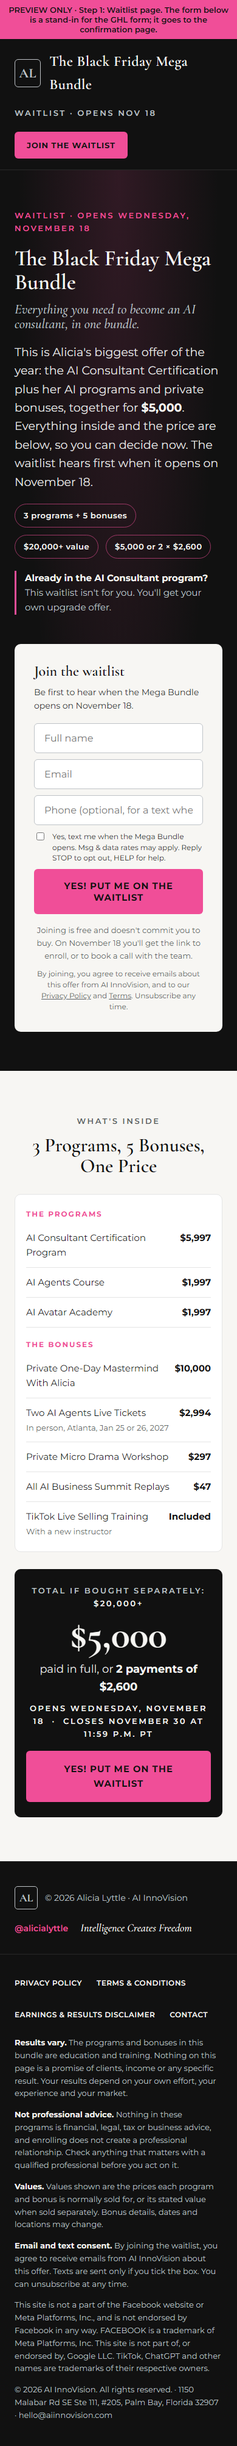
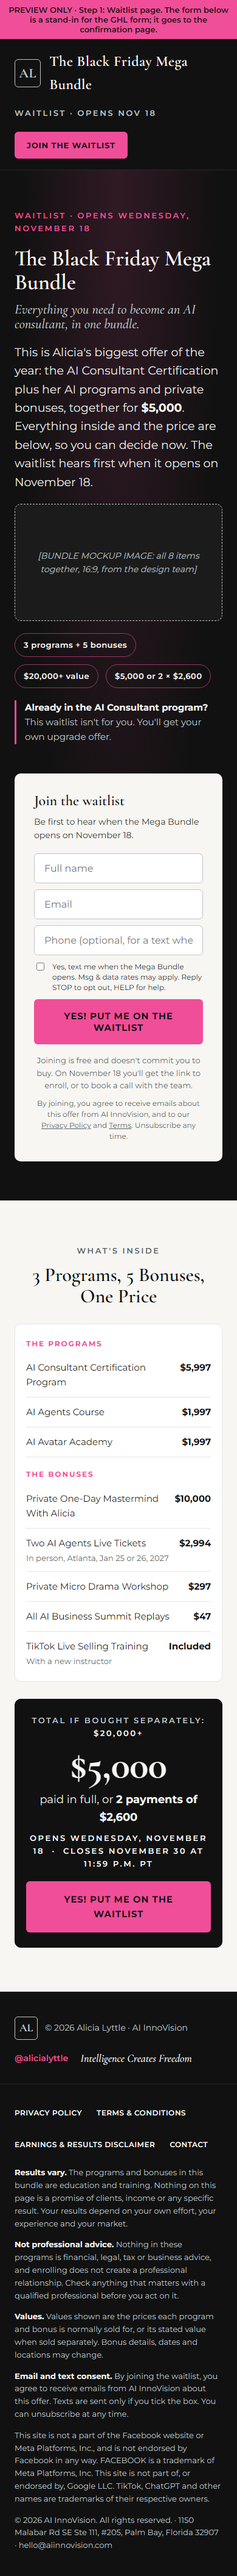
Waitlist: bundle mockup image slot in the hero

Changed region(s): [[0.0, 0.0, 1.0, 0.9973], [0.8615, 0.0, 0.8923, 0.0312]]

diff --git a/funnels/mega-bundle-waitlist-nov-2026/ghl/waitlist.ghl.html b/funnels/mega-bundle-waitlist-nov-2026/ghl/waitlist.ghl.html
@@ -135,6 +135,9 @@ body { background: #111111; }
 #ghl-waitlist .fit .body {font-size:17px;padding-left:28px;position:relative}
 #ghl-waitlist .fit.yes .body:before {content:"\2713";position:absolute;left:0;color:#F04E98;font-weight:700}
 #ghl-waitlist .fit.no .body:before {content:"\2715";position:absolute;left:0;color:#5A5F63;font-weight:700}
+/* bundle mockup slot (hero) */
+#ghl-waitlist .mockup {width:100%;aspect-ratio:16/9;border:1px dashed #BFC3C7;border-radius:10px;background:#1B1B1B;display:flex;align-items:center;justify-content:center;text-align:center;padding:20px;box-sizing:border-box;color:#BFC3C7;font-size:14px;font-style:italic}
+#ghl-waitlist .mockup img {width:100%;height:100%;object-fit:contain;display:block}
 /* compact list (short version) */
 #ghl-waitlist .list {background:#FFFFFF;border:1px solid #E5E5E5;border-radius:10px;padding:8px 28px 14px;display:flex;flex-direction:column}
 #ghl-waitlist .list .grp {font-size:12px;letter-spacing:.16em;text-transform:uppercase;font-weight:700;color:#F04E98;padding:18px 0 6px}
@@ -198,6 +201,9 @@ body { background: #111111; }
 <p class="eyebrow" style="color: #F04E98">Waitlist · Opens Wednesday, November 18</p>
 <h1 style="font-size: 60px; color: #F7F6F3">The Black Friday Mega Bundle <em style="display: block; font-style: italic; font-weight: 500; color: #BFC3C7; font-size: .62em; margin-top: 12px">Everything you need to become an AI consultant, in one bundle.</em></h1>
 <p class="body" style="font-size: 19px">This is Alicia's biggest offer of the year: the AI Consultant Certification plus her AI programs and private bonuses, together for <strong style="color: #F7F6F3">$5,000</strong>. Everything inside and the price are below, so you can decide now. The waitlist hears first when it opens on November 18.</p>
+<div class="mockup" id="bundle-mockup"><!-- Replace this box with the bundle mockup image: <img src="MOCKUP-URL" alt="The Black Friday Mega Bundle: everything inside"> -->
+<span>[BUNDLE MOCKUP IMAGE: all 8 items together, 16:9, from the design team]</span>
+</div>
 <div style="display: flex; flex-wrap: wrap; gap: 12px">
 <span class="pill">3 programs + 5 bonuses</span>
 <span class="pill">$20,000+ value</span>

diff --git a/funnels/mega-bundle-waitlist-nov-2026/design/waitlist.html b/funnels/mega-bundle-waitlist-nov-2026/design/waitlist.html
@@ -86,6 +86,9 @@ details summary::-webkit-details-marker{display:none}
 .fit .body{font-size:17px;padding-left:28px;position:relative}
 .fit.yes .body:before{content:"\2713";position:absolute;left:0;color:#F04E98;font-weight:700}
 .fit.no .body:before{content:"\2715";position:absolute;left:0;color:#5A5F63;font-weight:700}
+/* bundle mockup slot (hero) */
+.mockup{width:100%;aspect-ratio:16/9;border:1px dashed #BFC3C7;border-radius:10px;background:#1B1B1B;display:flex;align-items:center;justify-content:center;text-align:center;padding:20px;box-sizing:border-box;color:#BFC3C7;font-size:14px;font-style:italic}
+.mockup img{width:100%;height:100%;object-fit:contain;display:block}
 /* compact list (short version) */
 .list{background:#FFFFFF;border:1px solid #E5E5E5;border-radius:10px;padding:8px 28px 14px;display:flex;flex-direction:column}
 .list .grp{font-size:12px;letter-spacing:.16em;text-transform:uppercase;font-weight:700;color:#F04E98;padding:18px 0 6px}
@@ -130,6 +133,9 @@ details summary::-webkit-details-marker{display:none}
 <p class="eyebrow" style="color: #F04E98">Waitlist · Opens Wednesday, November 18</p>
 <h1 style="font-size: 60px; color: #F7F6F3">The Black Friday Mega Bundle <em style="display: block; font-style: italic; font-weight: 500; color: #BFC3C7; font-size: .62em; margin-top: 12px">Everything you need to become an AI consultant, in one bundle.</em></h1>
 <p class="body" style="font-size: 19px">This is Alicia's biggest offer of the year: the AI Consultant Certification plus her AI programs and private bonuses, together for <strong style="color: #F7F6F3">$5,000</strong>. Everything inside and the price are below, so you can decide now. The waitlist hears first when it opens on November 18.</p>
+<div class="mockup" id="bundle-mockup"><!-- Replace this box with the bundle mockup image: <img src="MOCKUP-URL" alt="The Black Friday Mega Bundle: everything inside"> -->
+<span>[BUNDLE MOCKUP IMAGE: all 8 items together, 16:9, from the design team]</span>
+</div>
 <div style="display: flex; flex-wrap: wrap; gap: 12px">
 <span class="pill">3 programs + 5 bonuses</span>
 <span class="pill">$20,000+ value</span>

diff --git a/funnels/mega-bundle-waitlist-nov-2026/preview/1-waitlist.html b/funnels/mega-bundle-waitlist-nov-2026/preview/1-waitlist.html
@@ -86,6 +86,9 @@ details summary::-webkit-details-marker{display:none}
 .fit .body{font-size:17px;padding-left:28px;position:relative}
 .fit.yes .body:before{content:"\2713";position:absolute;left:0;color:#F04E98;font-weight:700}
 .fit.no .body:before{content:"\2715";position:absolute;left:0;color:#5A5F63;font-weight:700}
+/* bundle mockup slot (hero) */
+.mockup{width:100%;aspect-ratio:16/9;border:1px dashed #BFC3C7;border-radius:10px;background:#1B1B1B;display:flex;align-items:center;justify-content:center;text-align:center;padding:20px;box-sizing:border-box;color:#BFC3C7;font-size:14px;font-style:italic}
+.mockup img{width:100%;height:100%;object-fit:contain;display:block}
 /* compact list (short version) */
 .list{background:#FFFFFF;border:1px solid #E5E5E5;border-radius:10px;padding:8px 28px 14px;display:flex;flex-direction:column}
 .list .grp{font-size:12px;letter-spacing:.16em;text-transform:uppercase;font-weight:700;color:#F04E98;padding:18px 0 6px}
@@ -130,6 +133,9 @@ details summary::-webkit-details-marker{display:none}
 <p class="eyebrow" style="color: #F04E98">Waitlist · Opens Wednesday, November 18</p>
 <h1 style="font-size: 60px; color: #F7F6F3">The Black Friday Mega Bundle <em style="display: block; font-style: italic; font-weight: 500; color: #BFC3C7; font-size: .62em; margin-top: 12px">Everything you need to become an AI consultant, in one bundle.</em></h1>
 <p class="body" style="font-size: 19px">This is Alicia's biggest offer of the year: the AI Consultant Certification plus her AI programs and private bonuses, together for <strong style="color: #F7F6F3">$5,000</strong>. Everything inside and the price are below, so you can decide now. The waitlist hears first when it opens on November 18.</p>
+<div class="mockup" id="bundle-mockup"><!-- Replace this box with the bundle mockup image: <img src="MOCKUP-URL" alt="The Black Friday Mega Bundle: everything inside"> -->
+<span>[BUNDLE MOCKUP IMAGE: all 8 items together, 16:9, from the design team]</span>
+</div>
 <div style="display: flex; flex-wrap: wrap; gap: 12px">
 <span class="pill">3 programs + 5 bonuses</span>
 <span class="pill">$20,000+ value</span>

diff --git a/funnels/mega-bundle-waitlist-nov-2026/README.md b/funnels/mega-bundle-waitlist-nov-2026/README.md
@@ -32,3 +32,7 @@ Normal price and 2-3 lines on "why you need it" for each component; verified tot
 
 - Waitlist members can buy without attending the summit (that's the point of the waitlist).
 - No domain or page paths yet: keep /[PATH].
+
+## Bundle mockup image (for the design team)
+
+One 16:9 image of the whole bundle (like last year's mockup), for the hero box `#bundle-mockup`: AI Consultant Certification Program, AI Agents Course, AI Avatar Academy, One-Day Mastermind With Alicia, Two AI Agents Live Tickets, Micro Drama Workshop, AI Business Summit Replays, TikTok Live Selling Training. AI Life Summit colours (black #111111, pink #F04E98), title "The Black Friday Mega Bundle". Dark or transparent background.
